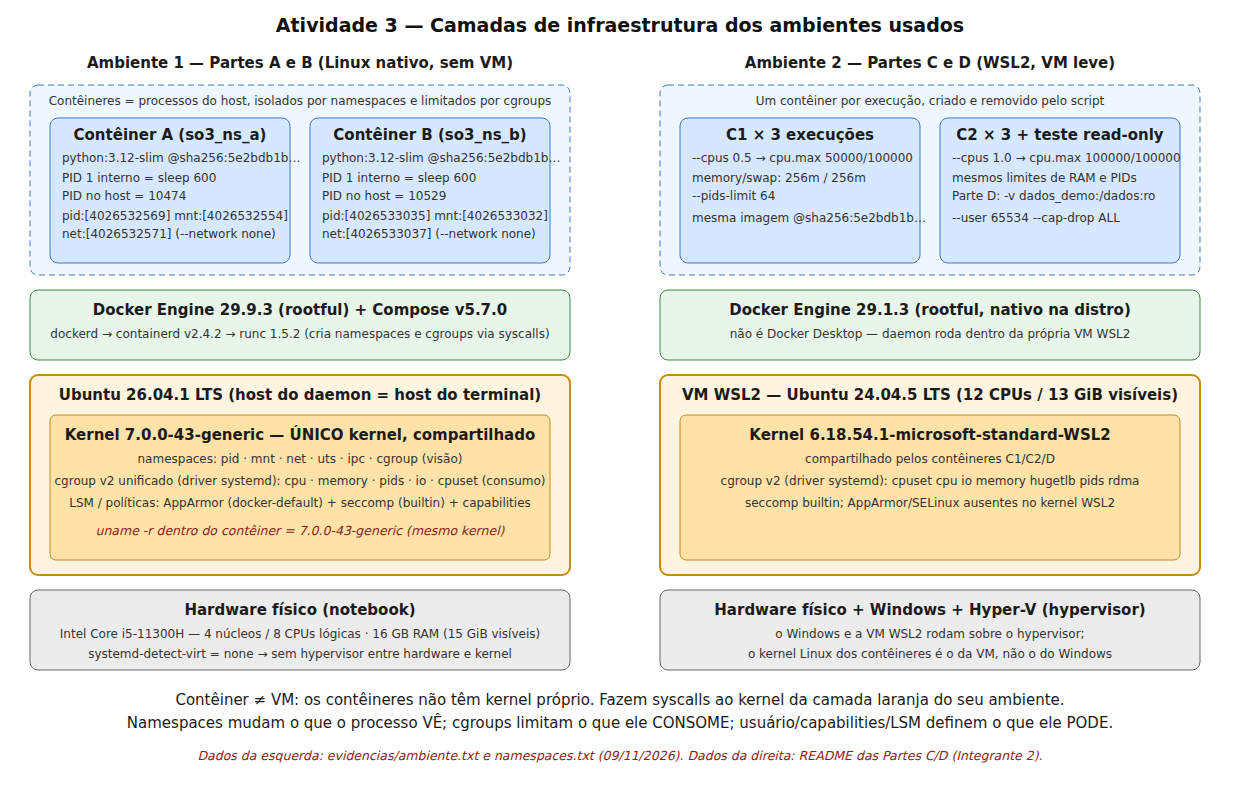
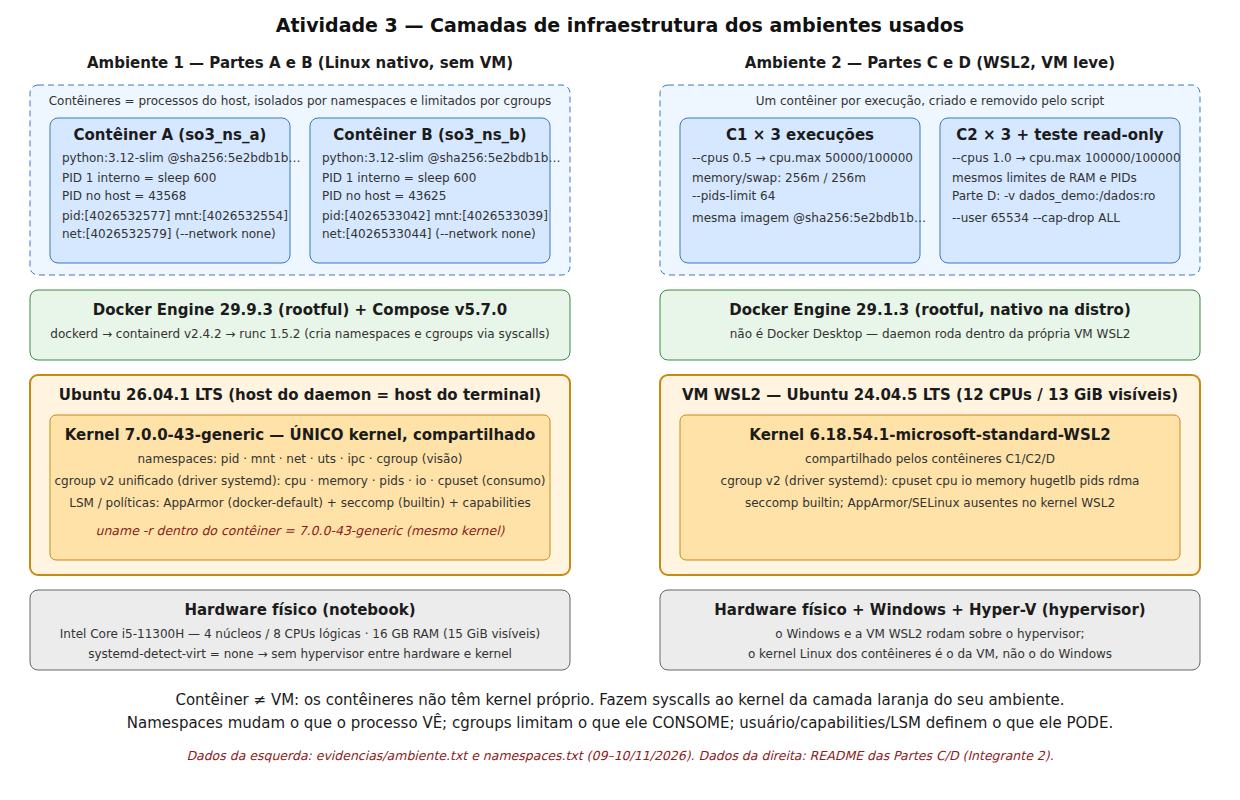
Parte B: nova coleta de namespaces com root e mountinfo
Atende à revisão do Integrante 3: compara handles de dentro e de fora
do contêiner (6/6 iguais), identifica o containerd-shim como pai,
registra /proc/1/mountinfo e lê os namespaces do PID 1 do host.
A coleta anterior (sem root) foi preservada em namespaces_coleta1.txt.

Changed region(s): [[0.1532, 0.9375, 0.8581, 0.9688], [0.1226, 0.2188, 0.1532, 0.2812], [0.3371, 0.2188, 0.3677, 0.25]]

diff --git a/docs/partes_A_B.md b/docs/partes_A_B.md
@@ -1,7 +1,7 @@
 # Partes A e B — Ambiente e evidências de namespaces
 
 Responsável pela coleta: **Antônio José Martins Mascarenhas** (Integrante 1).
-Coleta em **09/11/2026**. Todos os valores abaixo foram copiados dos logs em [`../evidencias/`](../evidencias/).
+Parte A coletada em **09/11/2026**; Parte B (oficial) em **10/11/2026**. Todos os valores abaixo foram copiados dos logs em [`../evidencias/`](../evidencias/).
 Nenhum foi tirado de exemplo.
 
 > **Para o Integrante 3:** a tabela comparativa e a explicação do PID 1 são sua parte. As seções 3 e 4
@@ -47,36 +47,64 @@ Fonte editável: [`../diagrama/infraestrutura.svg`](../diagrama/infraestrutura.s
 ## 3. Parte B — Dados brutos dos namespaces
 
 Dois contêineres independentes da mesma imagem, ambos com `--network none --cap-drop ALL --security-opt no-new-privileges`
-e o comando `sleep 600`. Log: [`../evidencias/namespaces.txt`](../evidencias/namespaces.txt).
+e o comando `sleep 600`. **Coleta oficial:** [`../evidencias/namespaces.txt`](../evidencias/namespaces.txt)
+(10/11/2026, leituras do host feitas como root).
 
 | Campo | Contêiner A (`so3_ns_a`) | Contêiner B (`so3_ns_b`) |
 |---|---|---|
-| `PID_host` (docker inspect) | 10474 | 10529 |
+| `PID_host` (docker inspect) | 43568 | 43625 |
+| Processo pai no host | 43543 `containerd-shim-runc-v2` | 43601 `containerd-shim-runc-v2` |
 | `/proc/1/comm` interno | `sleep` | `sleep` |
-| `NSpid` no host (`/proc/<PID>/status`) | `10474 1` | `10529 1` |
+| `NSpid` no host (`/proc/<PID>/status`) | `43568 1` | `43625 1` |
 | Processos visíveis dentro | `1 sleep`, `39 sh` (o próprio `docker exec`) | `1 sleep`, `39 sh` |
 | Interfaces de rede visíveis | apenas `lo` | apenas `lo` |
+| Raiz `/` (`/proc/1/mountinfo`) | `overlay`, mount ID 1650, `upperdir=…/snapshots/73` | `overlay`, mount ID 1818, `upperdir=…/snapshots/75` |
 
 ### Rascunho da tabela comparativa (Integrante 3 revisa)
 
-| Recurso | Handle em A | Handle em B | Host (PID 1/shell) | Iguais? | Interpretação |
+| Recurso | Handle em A | Handle em B | Host (namespace inicial) | A × B | Interpretação |
 |---|---|---|---|---|---|
-| PID | `pid:[4026532569]` | `pid:[4026533035]` | `pid:[4026531836]` | Diferentes | Cada contêiner tem a própria árvore de PIDs. Dentro dele só aparecem os seus processos, numerados a partir de 1. |
-| mount | `mnt:[4026532554]` | `mnt:[4026533032]` | `mnt:[4026531832]` | Diferentes | Cada contêiner tem a própria tabela de montagens (rootfs da imagem em overlay). Montar ou desmontar em um não aparece no outro. |
-| network | `net:[4026532571]` | `net:[4026533037]` | `net:[4026531833]` | Diferentes | Pilhas de rede separadas. Com `--network none`, cada uma só tem `lo`, sem rota nem interface para o host. |
+| PID | `pid:[4026532577]` | `pid:[4026533042]` | `pid:[4026531836]` | Diferentes | Cada contêiner tem a própria árvore de PIDs. Dentro dele só aparecem os seus processos, numerados a partir de 1. |
+| mount | `mnt:[4026532554]` | `mnt:[4026533039]` | `mnt:[4026531832]` | Diferentes | Cada contêiner tem a própria tabela de montagens. O `mountinfo` mostra raízes `overlay` distintas. |
+| network | `net:[4026532579]` | `net:[4026533044]` | `net:[4026531833]` | Diferentes | Pilhas de rede separadas. Com `--network none`, cada uma só tem `lo`. |
 
-Os números entre colchetes são números de inode no `nsfs`. Dois processos estão no mesmo namespace **se e somente se**
-o handle é igual (namespaces(7)).
+- A coluna "Host" vem do **PID 1 do host (`systemd`)**, lido como root. O shell que rodou o script tem exatamente os mesmos
+  handles, ou seja, ambos estão no namespace inicial.
+- **Ligação dentro × fora (verificada):** para cada contêiner e cada tipo, `readlink /proc/<PID_host>/ns/<tipo>` no host, como root,
+  deu o **mesmo** handle que `readlink /proc/1/ns/<tipo>` dentro do contêiner (6 de 6 marcados `IGUAL` no log).
+  O `lsns` do host lista cada um desses namespaces com 1 processo, o respectivo `sleep 600`.
+- Os números entre colchetes são inodes no `nsfs`. Dois processos estão no mesmo namespace **se e somente se** o handle é igual
+  (namespaces(7)). O kernel **reutiliza** esses números depois que um namespace é destruído. Por isso `mnt:[4026532554]`
+  aparece também na coleta 1, cujos contêineres já tinham sido removidos. A comparação só vale entre processos vivos ao mesmo tempo.
+
+### O que o `mountinfo` mostra (e o que não mostra)
+
+- **Observado:** a raiz de cada contêiner é um `overlay`. As camadas inferiores `snapshots/56–59` (a imagem) são as
+  **mesmas** nos dois, e são somente leitura. Cada um tem a **própria** camada gravável (`upperdir` 73 × 75) e a própria
+  camada de init (72 × 74). Ou seja, a imagem é compartilhada em disco, mas a escrita de um não vai para o outro.
+- **Observado:** `/sys` e `/sys/fs/cgroup` são montados `ro`. `/proc/sys`, `/proc/sysrq-trigger` etc. são `ro`, e
+  `/proc/kcore`, `/proc/keys` etc. são mascarados com `/dev/null`. É material útil para a parte de segurança (Integrante 5).
+- **Não testado:** não foi feita montagem nova dentro de um contêiner para ver se ela aparece no outro. Com `--cap-drop ALL`
+  não há `CAP_SYS_ADMIN`, então isso não é possível sem enfraquecer o teste. Fica como mecanismo descrito em namespaces(7)/mount_namespaces(7),
+  não como observação.
+
+### Coleta anterior (preservada)
+
+[`../evidencias/namespaces_coleta1.txt`](../evidencias/namespaces_coleta1.txt) (09/11/2026) foi feita **sem root**. Nela não
+foi possível ler `/proc/<PID>/ns/*` de fora, o `lsns` saiu vazio, o processo pai não foi identificado e os valores do
+"host" eram os do shell. Os resultados qualitativos são os mesmos (handles diferentes, PID 1 em ambos, `NSpid` X→1).
+Ela foi substituída como coleta oficial pela versão com root, seguindo a revisão do Integrante 3.
 
 ## 4. PID 1 em ambos: dados para a explicação
 
 - Dentro de A e dentro de B, `/proc/1/comm = sleep`. **Os dois contêineres têm um PID 1.**
-- São processos **distintos** no kernel: no host, o PID 1 de A é **10474** e o de B é **10529**
-  (`ps` no host mostra `sleep 600` com usuário root em ambos).
-- A linha `NSpid: 10474 1` do `/proc/10474/status` é a prova direta: o **mesmo processo** tem PID 10474 no namespace PID do host
+- São processos **distintos** no kernel: no host, o PID 1 de A é **43568** e o de B é **43625**. Cada um é filho do seu
+  próprio `containerd-shim-runc-v2` (43543 e 43601), que é o processo que o runtime deixa como “pai” do contêiner.
+- A linha `NSpid: 43568 1` do `/proc/43568/status` é a prova direta: o **mesmo processo** tem PID 43568 no namespace PID do host
   e PID 1 no namespace PID filho. Um namespace PID novo começa a numeração em 1. O primeiro processo criado nele (o `init` do
-  namespace) recebe o 1, mas continua tendo um PID “real” no namespace pai.
-- Os handles `pid:[…]` diferentes confirmam que A e B estão em namespaces PID distintos. Por isso o número 1 pode se repetir sem conflito.
+  namespace) recebe o 1, mas continua tendo um PID no namespace pai.
+- Os handles `pid:[…]` diferentes, confirmados de dentro e de fora, mostram que A e B estão em namespaces PID distintos.
+  Por isso o número 1 pode se repetir sem conflito.
 - O `sh` com PID 39 é o processo criado pelo `docker exec`, que entra (`setns`) no namespace já existente.
 - Como o host do daemon é o próprio Linux nativo, foi possível conferir o PID do inspect no `/proc` do terminal.
   Em Docker Desktop ou WSL2 com daemon em outra VM, essa verificação não seria válida.
@@ -84,14 +112,15 @@ o handle é igual (namespaces(7)).
 **O que essa evidência não prova:** não prova isolamento de segurança absoluto. Os contêineres compartilham o kernel, e uma
 falha no kernel ou no runtime pode ultrapassar namespaces. Também não diz nada sobre limite de consumo (isso é cgroup)
 nem sobre privilégios (usuário, capabilities, AppArmor/seccomp). Namespaces mudam o que o processo **vê**.
+**Escopo:** esta evidência é do ambiente Linux nativo. Não vale como observação do ambiente WSL2 das Partes C/D.
 
 ## 5. Reprodução
 
 ```bash
 bash scripts/coleta_ambiente.sh     # Parte A: gera evidencias/ambiente.txt, imagem_digest.txt, controladores.txt
-bash scripts/coleta_namespaces.sh   # Parte B: gera evidencias/namespaces.txt
+sudo -v && bash scripts/coleta_namespaces.sh   # Parte B (rodar no terminal; sudo só para LER /proc de outros processos)
 ```
 
 Os scripts só leem `/proc` e `/sys`. `coleta_namespaces.sh` cria apenas `so3_ns_a` e `so3_ns_b` e os remove ao sair (`trap EXIT`).
-Os handles e PIDs mudam a cada execução. Os valores acima são os desta coleta.
+O script se recusa a sobrescrever `evidencias/namespaces.txt`: renomeie a coleta anterior antes. Os handles e PIDs mudam a cada execução. Os valores acima são os desta coleta.
 Limpeza manual, se interrompido: `docker rm -f so3_ns_a so3_ns_b`.

diff --git a/README.md b/README.md
@@ -38,7 +38,7 @@ Anderson Soares de Santana Júnior, João Felipe Tunes Oliveira.
 |---|---|---|
 | Ambiente, cgroup v2 e digest da imagem (Parte A) | [`evidencias/ambiente.txt`](evidencias/ambiente.txt), [`evidencias/controladores.txt`](evidencias/controladores.txt), [`evidencias/imagem_digest.txt`](evidencias/imagem_digest.txt) | ✅ |
 | Diagrama de camadas | [`diagrama/infraestrutura.png`](diagrama/infraestrutura.png) (fonte `.svg`) | ✅ |
-| Namespaces PID/mnt/net em dois contêineres (Parte B) | [`evidencias/namespaces.txt`](evidencias/namespaces.txt), [`docs/partes_A_B.md`](docs/partes_A_B.md) | ✅ coleta · ⏳ tabela final (Integrante 3) |
+| Namespaces PID/mnt/net em dois contêineres (Parte B) | [`evidencias/namespaces.txt`](evidencias/namespaces.txt) (coleta 1 preservada em `namespaces_coleta1.txt`), [`docs/partes_A_B.md`](docs/partes_A_B.md) | ✅ coleta · ⏳ tabela final (Integrante 3) |
 | Seis execuções C1/C2 + piloto (Parte C) | `resultados/` | ⏳ Integrante 2 |
 | CSV e gráfico | `resultados/execucoes.csv`, gráfico | ⏳ Integrante 4 |
 | Teste read-only (Parte D) | `evidencias/` | ⏳ Integrante 2 / 5 |
@@ -78,7 +78,7 @@ bash scripts/coleta_ambiente.sh
 export IMAGEM_LAB="$(cat evidencias/imagem_digest.txt)"
 
 # Parte B: dois contêineres, handles de pid/mnt/net
-bash scripts/coleta_namespaces.sh
+sudo -v && bash scripts/coleta_namespaces.sh   # sudo só para LER /proc de outros processos
 ```
 
 Partes C e D: _a documentar pelo Integrante 2_.
